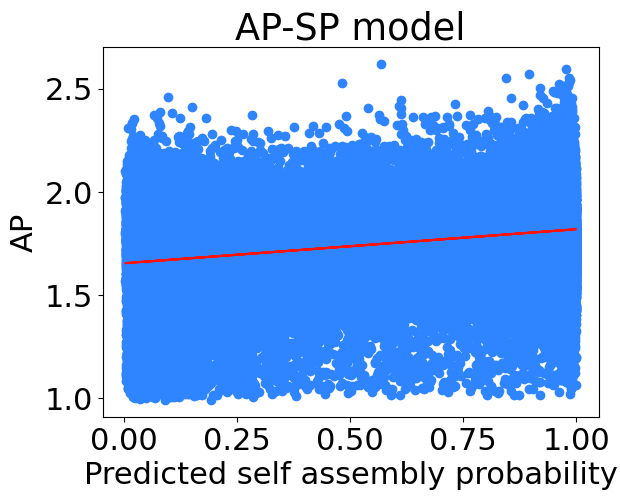
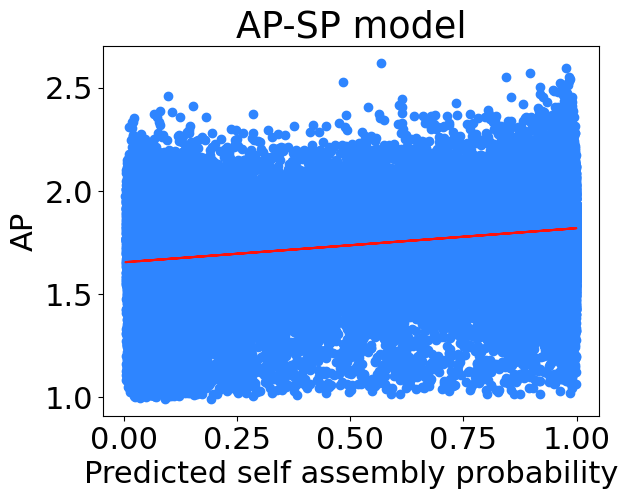
csv metric newdata

diff --git a/code/long_plot_2.py b/code/long_plot_2.py
@@ -221,11 +221,22 @@ vals_in_lines = [
     "Accuracy (PR thr new) = ",
 ]
 
+dict_csv_data = dict()
+colnames = ["Metric"]
+model_order = {"AP": "AP", "SP": "SP", "AP_SP": "AP-SP", "TSNE_SP": "t-SNE SP", "TSNE_AP_SP": "t-SNE AP-SP"}
+for model in model_order:
+    colnames.append(model_order[model])
+for c in colnames:
+    dict_csv_data[c] = []
+dict_csv_data["Metric"].append("Pearson")
+dict_csv_data["Metric"].append("Spearman")
+
 lines_dict = dict()
 for val in vals_in_lines:
     lines_dict[val] = []
 
 for some_path in path_list:
+    model = some_path.replace("../", "").replace("/", "").replace("_model_data", "").replace("_data", "")
     fileopen = open(predictions_longest_name(some_path), "r")
     predictions = eval(fileopen.readlines()[0].replace("\n", ""))
     predictions = predictions[:-1]
@@ -234,7 +245,9 @@ for some_path in path_list:
     print(some_path)
     print("R: " + str(r))
     print("corrcoef: " + str(np.corrcoef(predictions, actual_AP)[0][1]))
+    dict_csv_data[model_order[model]].append(np.corrcoef(predictions, actual_AP)[0][1])
     print("spearmanr: " + str(stats.spearmanr(predictions, actual_AP)[0]))
+    dict_csv_data[model_order[model]].append(stats.spearmanr(predictions, actual_AP)[0])
     print("R2: " + str(sklearn.metrics.r2_score(predictions, actual_AP)))
 
     read_ROC(test_labels, predictions, lines_dict, PRthr[some_path], ROCthr[some_path])
@@ -252,3 +265,13 @@ for some_path in path_list:
 for x in lines_dict:
     print(x)
     print(np.round(lines_dict[x], 3))
+    dict_csv_data["Metric"].append(x.replace(" = ", ""))
+    ixpth = 0
+    for v in lines_dict[x]:
+        model = path_list[ixpth].replace("../", "").replace("/", "").replace("_model_data", "").replace("_data", "")
+        dict_csv_data[model_order[model]].append(v)
+        ixpth += 1
+
+print(dict_csv_data)
+df_new = pd.DataFrame(dict_csv_data)
+df_new.to_csv("review/newest_data_min.csv")

diff --git a/code/long_plot_3.py b/code/long_plot_3.py
@@ -183,7 +183,7 @@ for val in duplicate_list:
     ix_dup = duplicate_list.index(list(dict_hex.keys())[ix])
     error_status = (actual_AP[ix] < threshold) != (duplicate_AP_list[ix_dup] < threshold)
     print(error_status, list(dict_hex.keys())[ix], actual_AP[ix], duplicate_AP_list[ix_dup])
-    actual_AP[ix] = max(actual_AP[ix], duplicate_AP_list[ix_dup])
+    actual_AP[ix] = np.average([actual_AP[ix], duplicate_AP_list[ix_dup]])
 
 seq_example = ""
 for i in range(MAX_LEN):
@@ -259,7 +259,7 @@ for some_path in path_list:
     plt.ylabel("AP")
     plt.plot(predictions, mymodel, color="#ff120a")
     plt.scatter(predictions, actual_AP, color="#2e85ff")
-    plt.savefig(scatter_name_long(some_path), bbox_inches="tight")
+    plt.savefig(scatter_name_long(some_path).replace("long", "longavg"), bbox_inches="tight")
     plt.close()
 
 for x in lines_dict:
@@ -274,4 +274,4 @@ for x in lines_dict:
 
 print(dict_csv_data)
 df_new = pd.DataFrame(dict_csv_data)
-df_new.to_csv("review/newest_data_max.csv")
+df_new.to_csv("review/newest_data_avg.csv")
